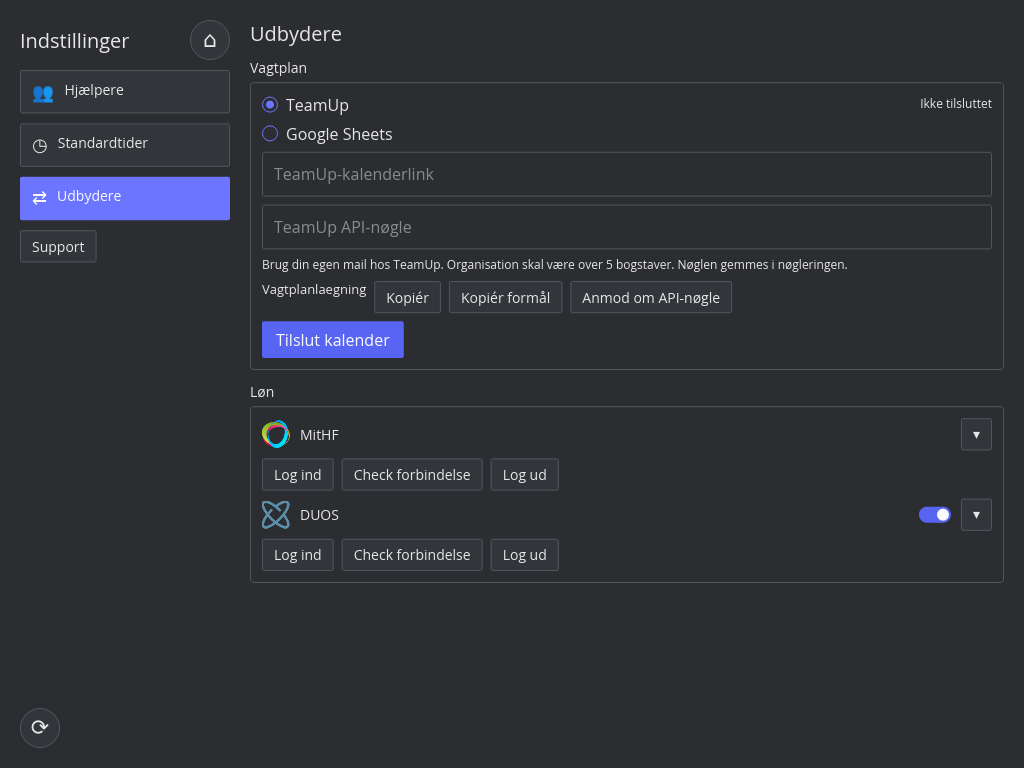
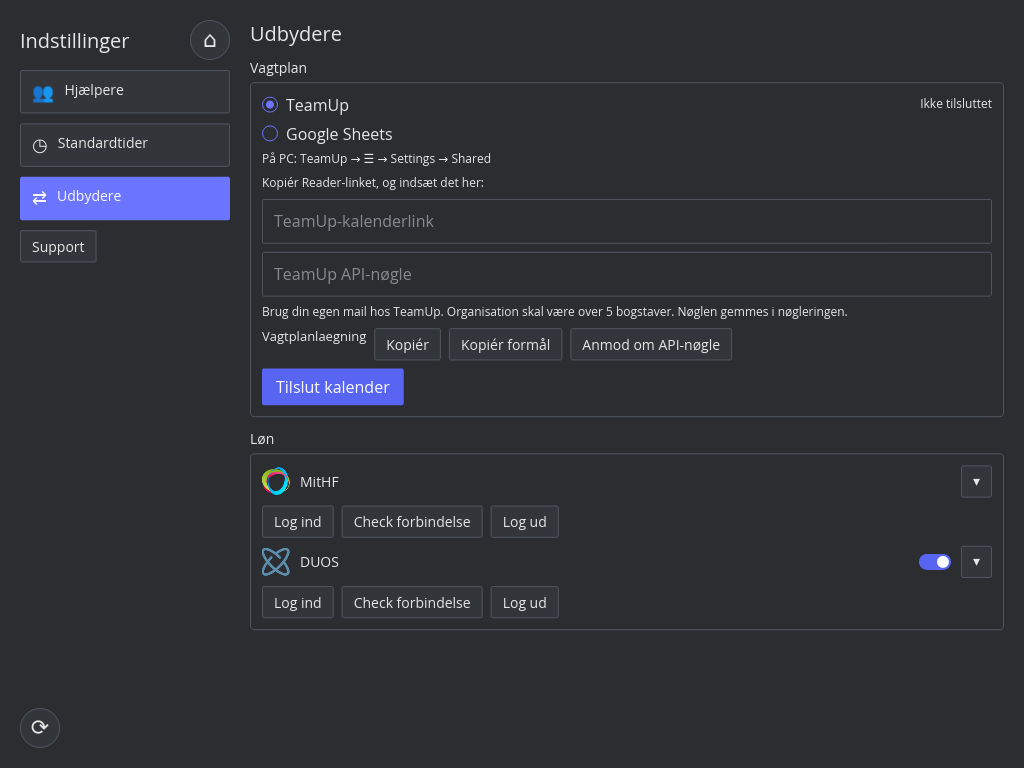
Explain where to copy the TeamUp Reader link

diff --git a/desktop/src/setup.rs b/desktop/src/setup.rs
@@ -398,6 +398,8 @@ impl SetupUi {
             );
         } else {
             content = content
+                .push(text("På PC: TeamUp → ☰ → Settings → Shared").size(12))
+                .push(text("Kopiér Reader-linket, og indsæt det her:").size(12))
                 .push(
                     text_input("TeamUp-kalenderlink", &self.link)
                         .id(iced::widget::Id::new(SOURCE_LINK_ID))
